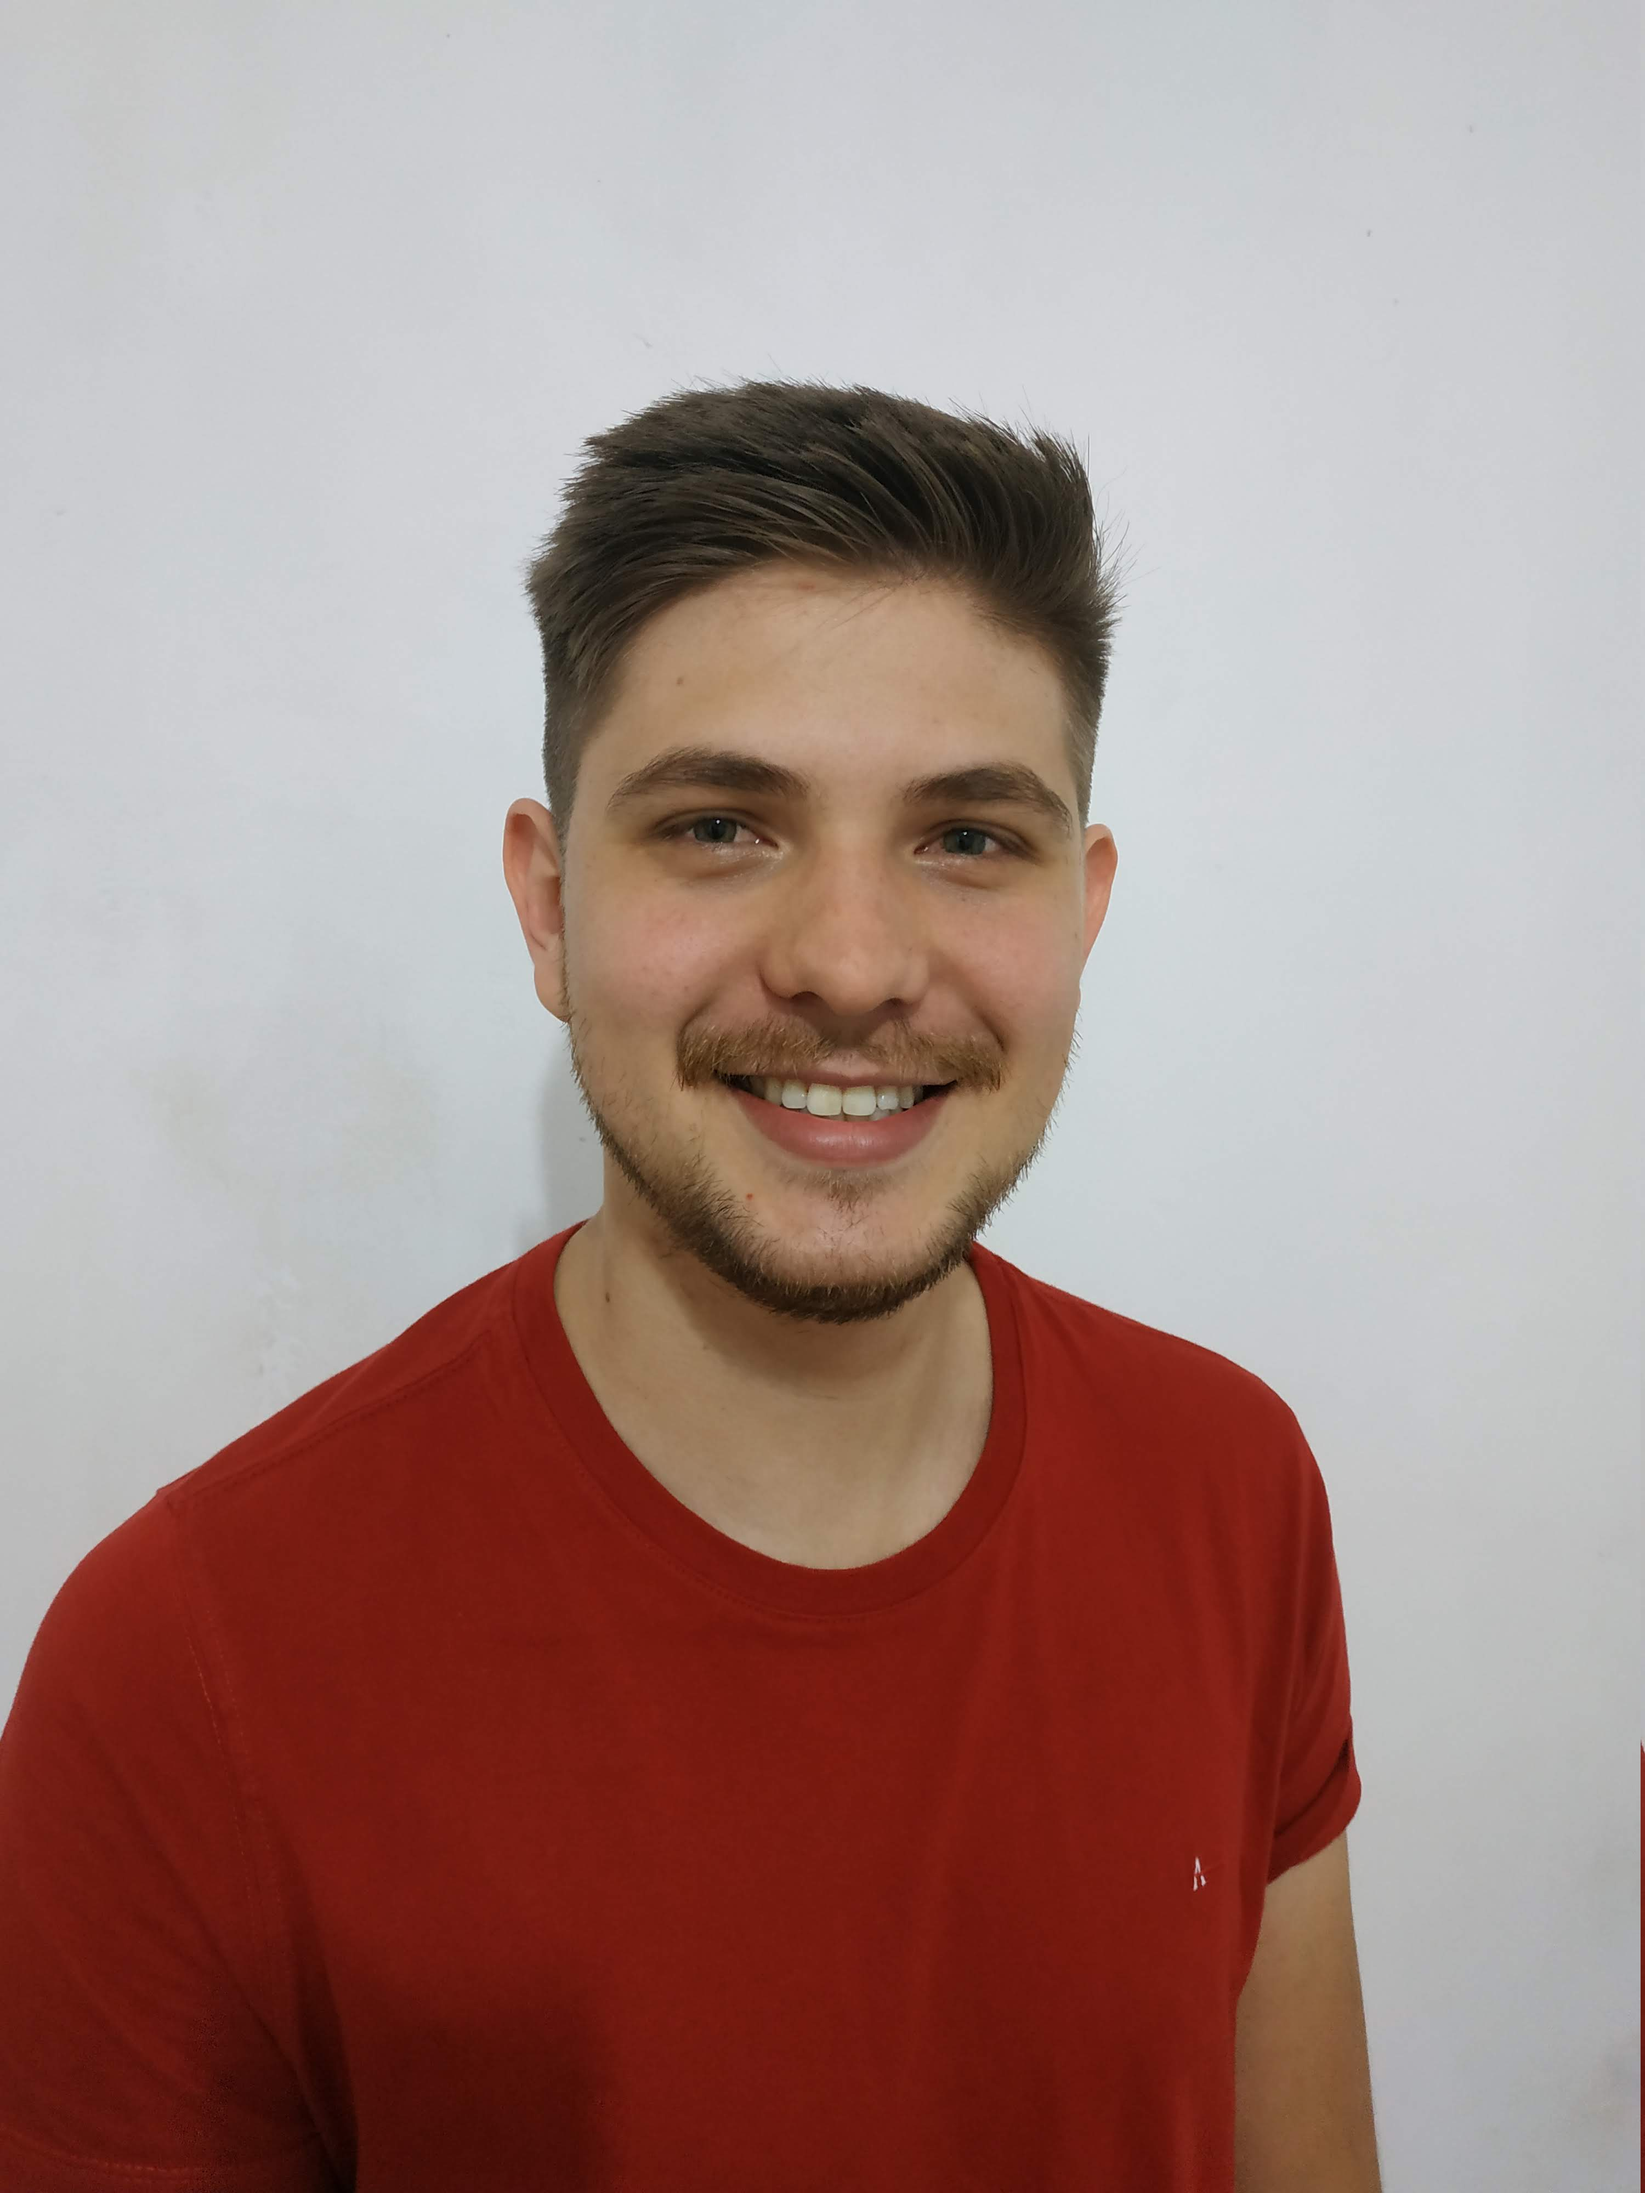
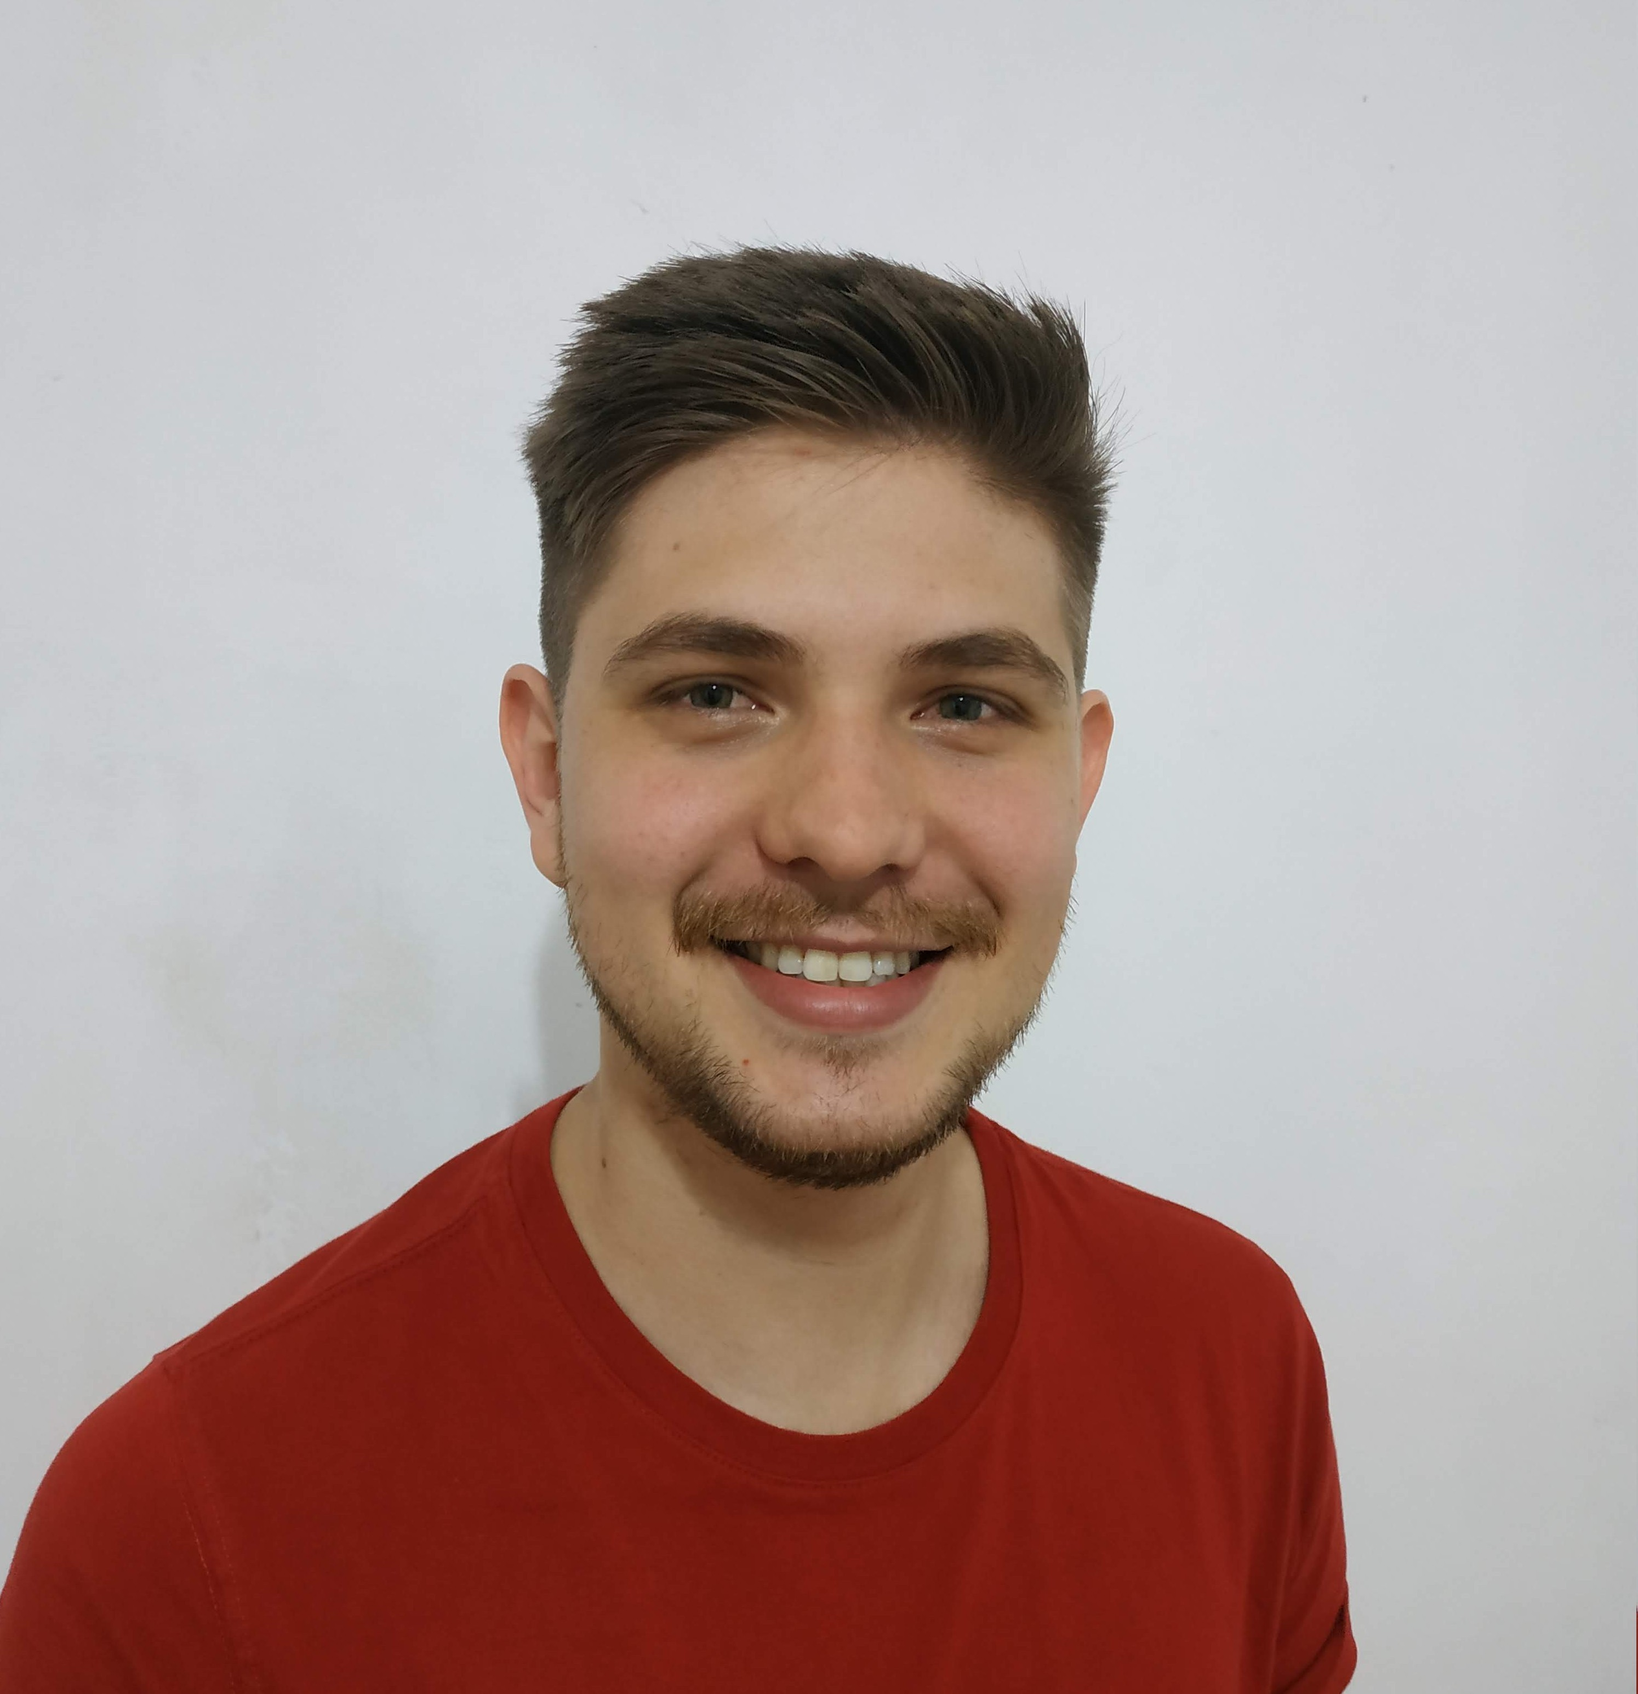
Primeiras alteraçoes opcionais: CSS

Changed region(s): [[0.0, 0.1243, 0.8401, 1.0], [0.5601, 0.932, 0.7156, 1.0], [0.9645, 0.7767, 1.0, 1.0]]

diff --git a/index.html b/index.html
@@ -10,7 +10,7 @@
 <body>
 
   <header id="cabecalho">
-    <h1 id="titulo">Título</h1>
+    <h1 id="titulo">Project - Lessons Learned</h1>
     <nav id="menu">
       <p><a href="#minha_foto">Minha Foto</a></p>
       <p><a href="#licoes_aprendidas">Lições Aprendidas</a></p>
@@ -23,7 +23,7 @@
   <main>
     <section>
       <img id="minha_foto" src="minha_foto.jpg" alt="Foto - Matheus Kaffka">
-      <p> <a href="https://www.linkedin.com/in/matheus-kaffka/" target="_blank"> Página do LinkedIn </a></p>
+      <p> <a id="linkedin" href="https://www.linkedin.com/in/matheus-kaffka/" target="_blank"> Página do LinkedIn </a></p>
     </section>
 
     <section>
@@ -58,12 +58,12 @@
 
     <article id="html5">
       <h2>Learned Lessons Project</h2>
-        <p>HTML5 é uma nova versão do HTML e do XHTML. O rascunho das especificações do HTML5 definem uma única linguagem que pode ser escrita em HTML e XML. Um dos seus principais objetivos é facilitar a manipulação dos elementos, possibilitando o desenvolvedor modificar as características dos objetos de forma não intrusiva, fazendo com que isso fique transparente para o usuário final. Diferente das versões anteriores, o HTML5 fornece ferramentas para o CSS e o Javascript fazerem seu trabalho da melhor maneira possível de forma que um web site ou aplicação continue leve e eficaz.</p>
+        <p>HTML5 é uma nova versão do HTML e do XHTML. Um dos seus principais objetivos é facilitar a manipulação dos elementos, possibilitando o desenvolvedor modificar as características dos objetos de forma não intrusiva, fazendo com que isso fique transparente para o usuário final. Diferente das versões anteriores, o HTML5 fornece ferramentas para o CSS e o Javascript fazerem seu trabalho da melhor maneira possível de forma que um web site ou aplicação continue leve e eficaz.</p>
     </article>
 
     <aside id="meu_aprendizado">
       <h2>Meu Aprendizado</h2>
-        <p>A introdução aos aprendizados de HTML e CSS tem sido muito desafiadora. Já desenvolvia landing pages antes mas tudo era feito de forma visual, em plugins como Elementor, Optimize Press ou sites construtores de páginas, e não a partir do código. Tem sido muito bacana entender o porquê de cada tag e como se comportam visualmente.</p>
+        <p>A introdução aos aprendizados de HTML e CSS tem sido muito desafiadora. Já elaborei landing pages em plugins como Elementor, Optimize Press, etc, mas não a partir do código. Tem sido muito bacana entender o porquê de cada tag e como se comportam visualmente.</p>
     </aside>
    </main>
 

diff --git a/style.css b/style.css
@@ -1,18 +1,32 @@
 header {
-  border: 1px solid red;
-  /* background-color: red; */
+  background-color: #f3f3f3;
   position: fixed;
   top: 0;
   width: 100%;
   text-align: center;
+  box-shadow: 0px 0px 50px -35px black; /* adiciona o efeito sombreado no bottom do header (x y blur spread cor)*/
+  margin-bottom: 10px;
 }
 
-#menu p {
+#titulo {
+  color: rgb(10, 10, 10);
+  font-weight: bold;
+}
+
+#menu p, #menu a {
   display: inline;
+  text-decoration: none;
+  color: grey;
+  font-weight: bold;
 }
 
 body {
   background-color: rgb(253, 251, 251);
+  font-family: -apple-system, BlinkMacSystemFont, 'Segoe UI', Roboto, Oxygen, Ubuntu, Cantarell, 'Open Sans', 'Helvetica Neue', sans-serif;
+  /* margin: none; Não deixou tirar a margem */
+  text-align: center;
+  margin: 0%;
+
 }
 
 section, aside, article {
@@ -20,11 +34,16 @@ section, aside, article {
 }
 
 #minha_foto {
-  border: 1px solid red;
+  border-radius: 50%;
+  border: 3px solid grey;
   width: 200px;
-  margin-top: 100px;
+  margin-top: 10%;
 }
 
+#linkedin {
+  text-decoration: none;
+  color: black;
+}
 footer {
   border: 1px solid red;
 }
